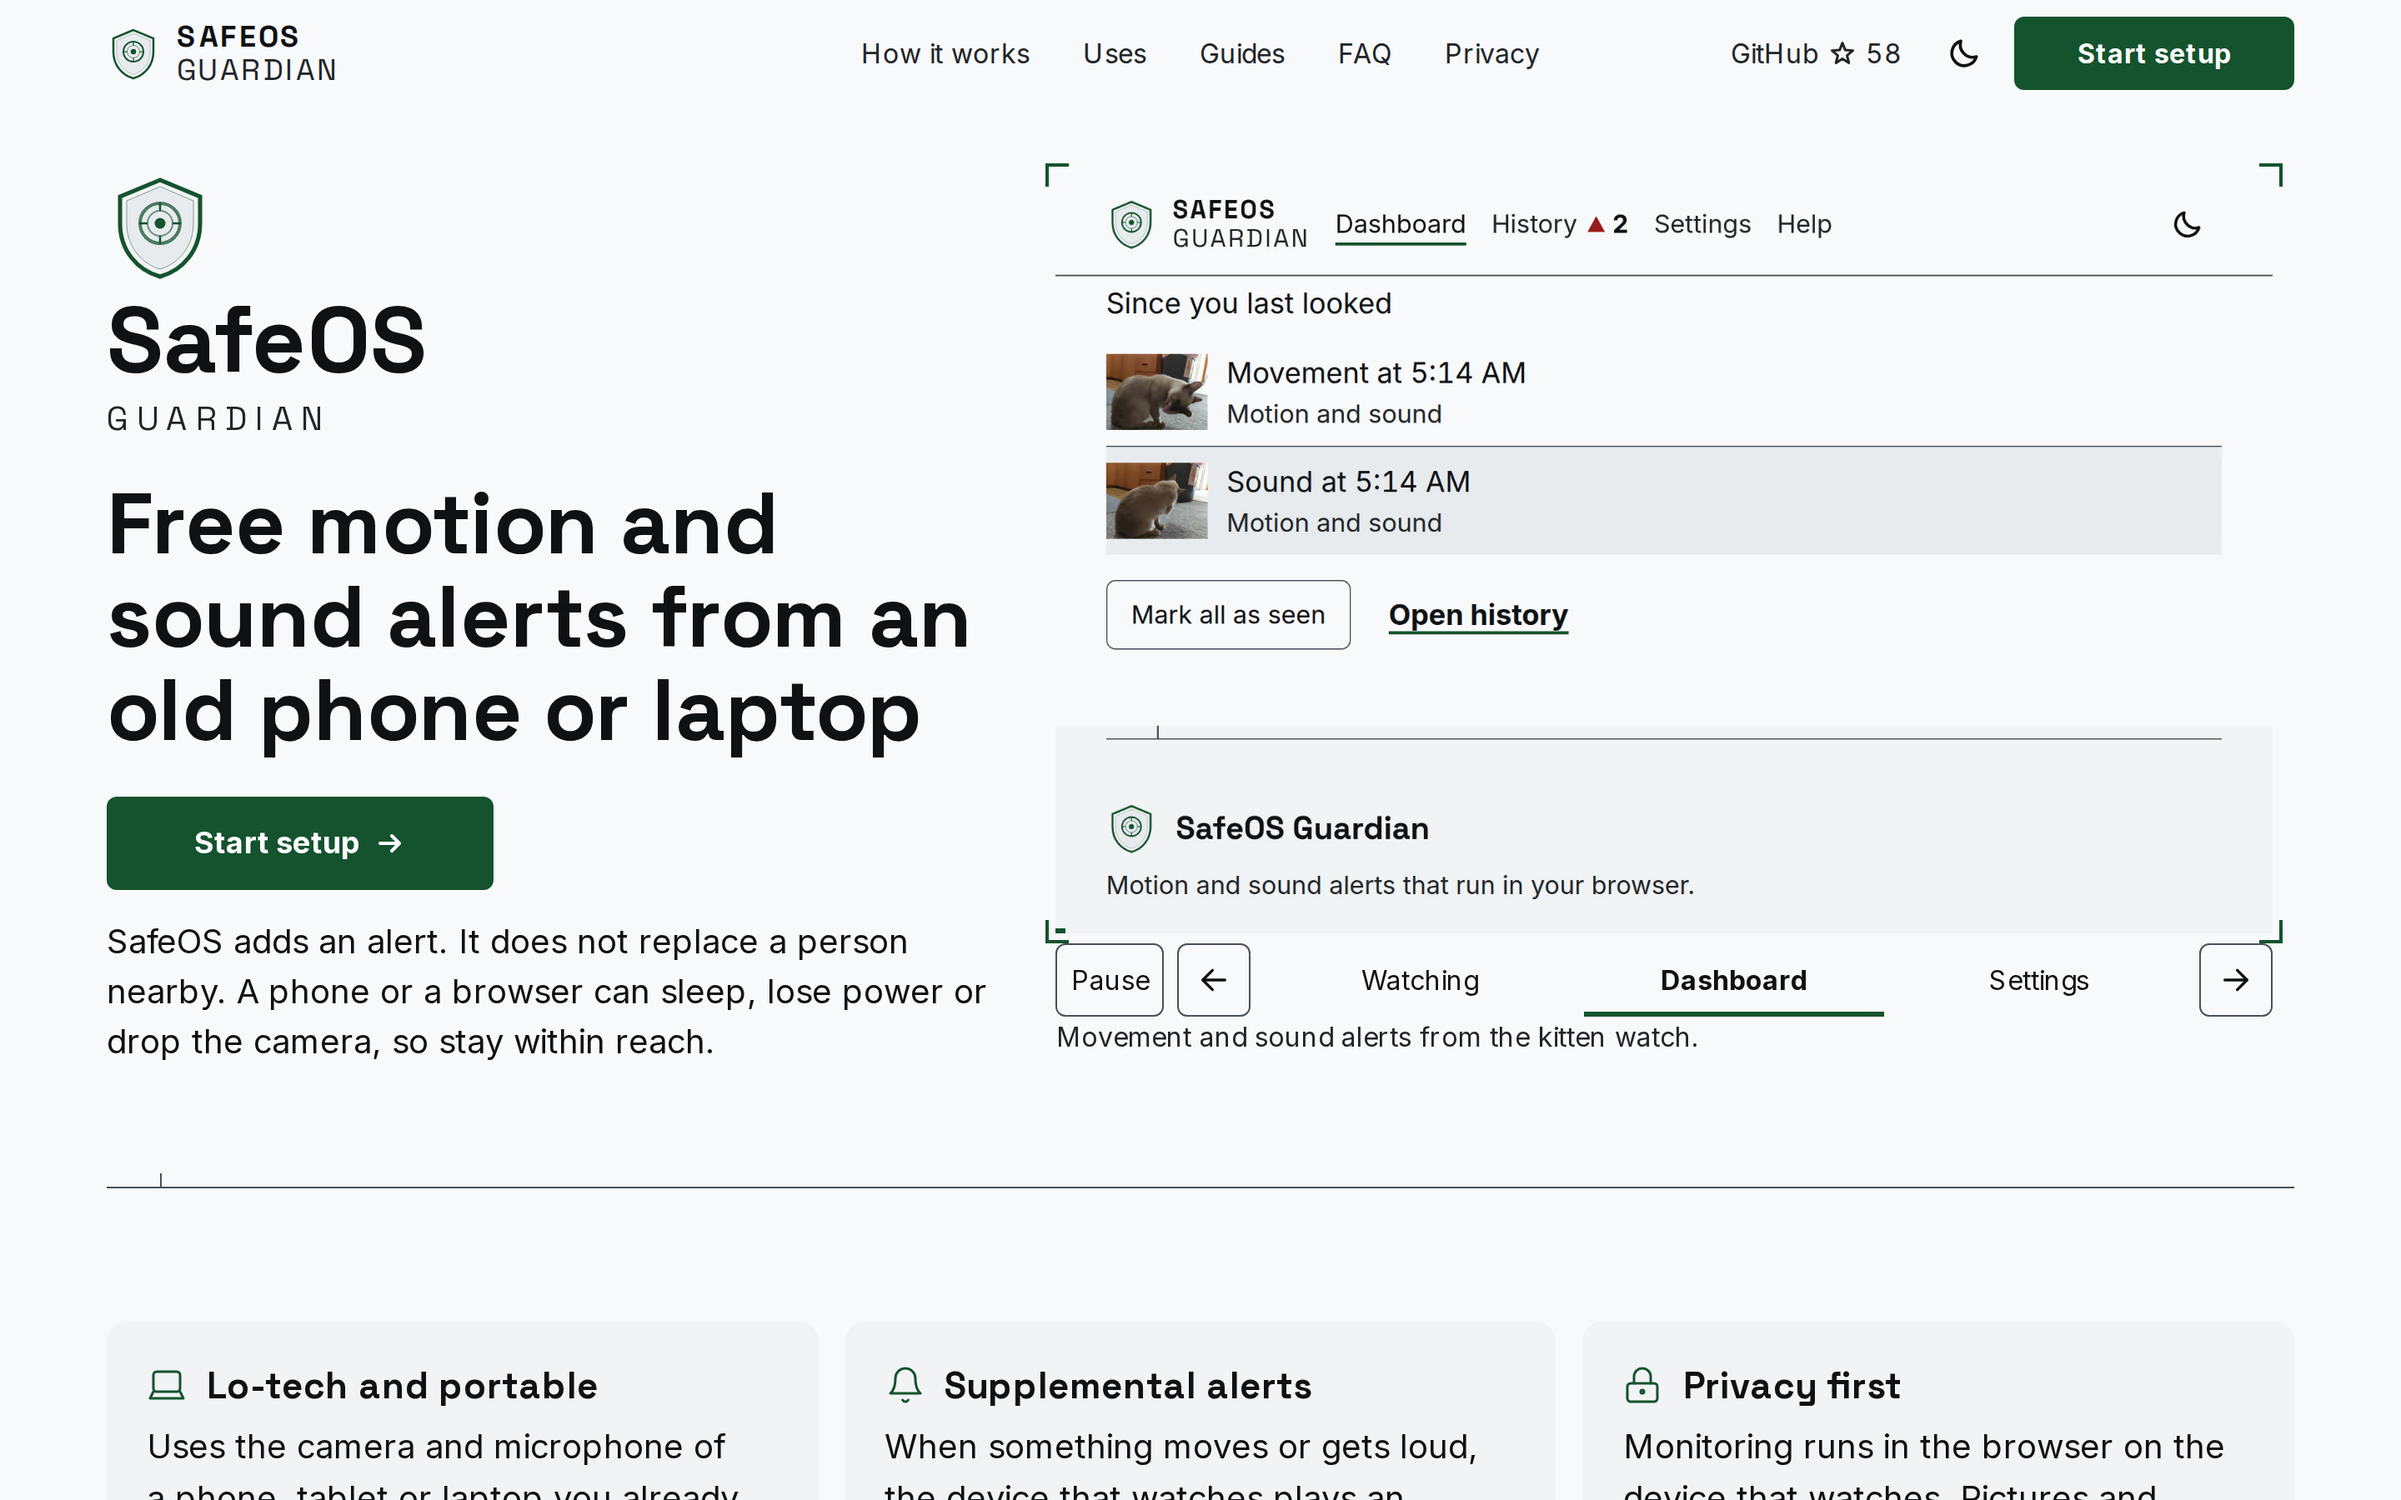
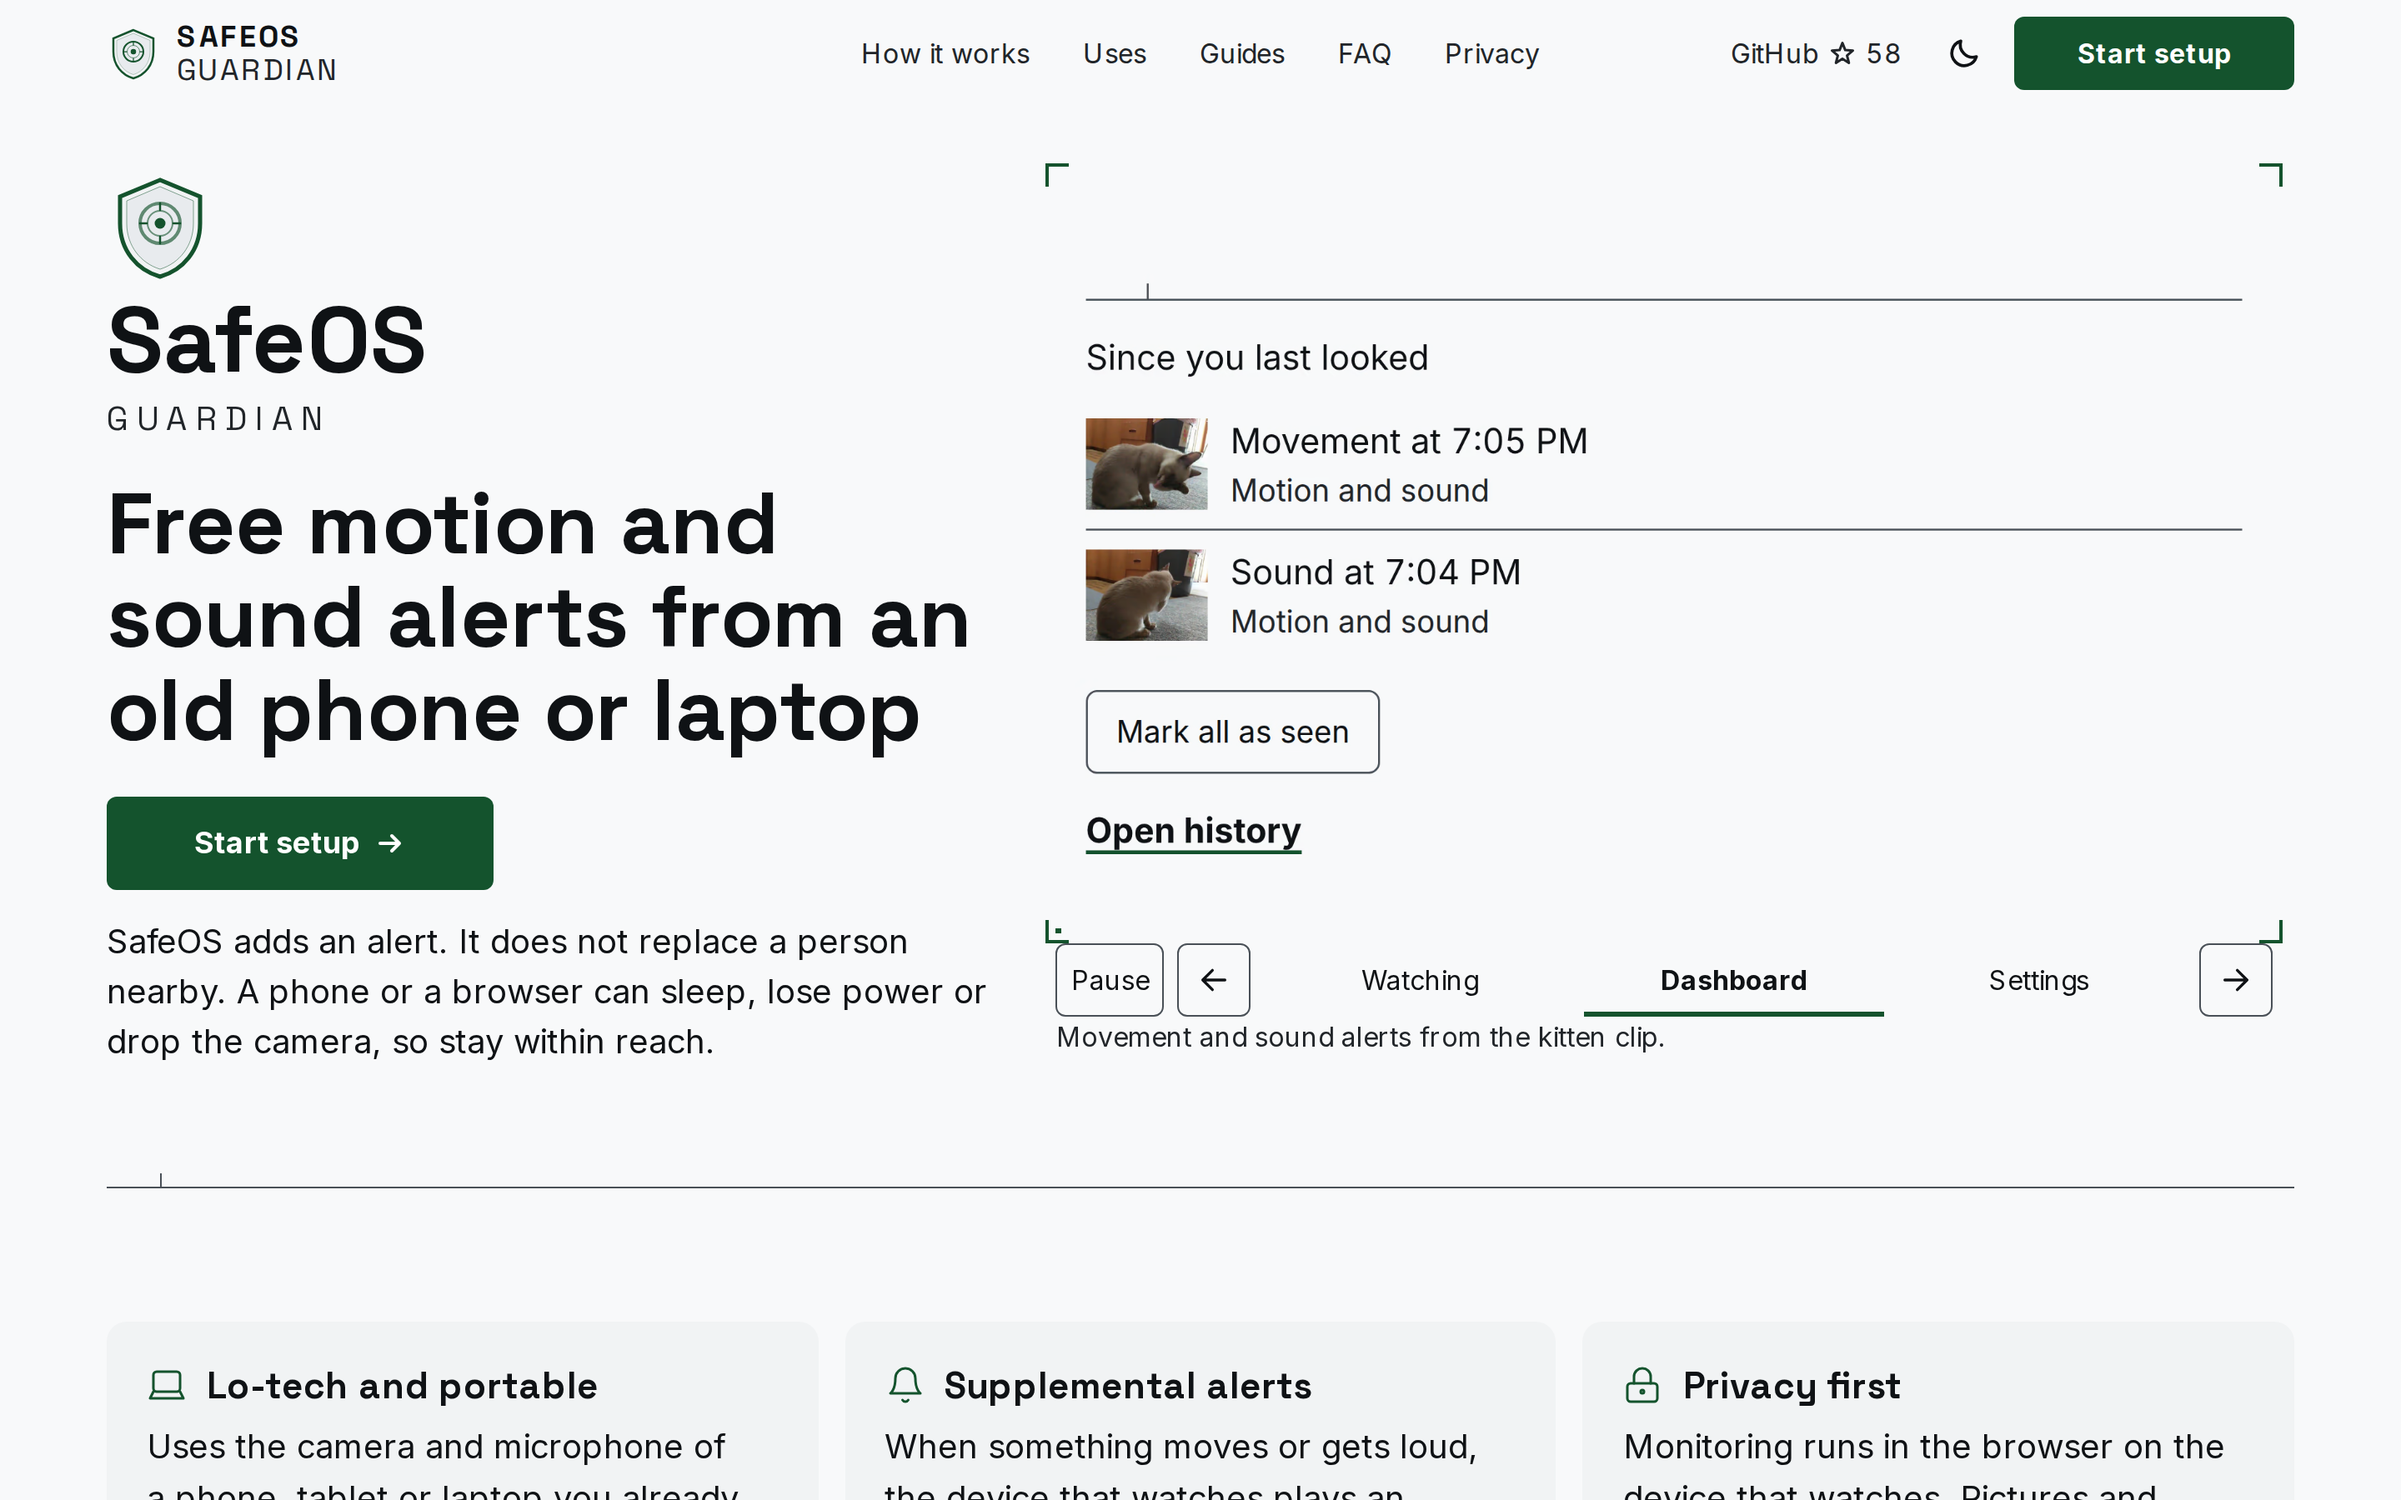
docs: refresh the home recording pictures

diff --git a/docs/pictures/pr-65/README.md b/docs/pictures/pr-65/README.md
@@ -1,32 +1,32 @@
 # SafeOS Guardian home recordings and pictures
 
-The original PNGs come from the [Pictures run](https://github.com/framerslab/safeos/actions/runs/45558776118). The first-screen captures use fresh browsers at 390 × 844 and 1440 × 900 CSS pixels, at 2× in both looks.
+The PNGs come from the [Pictures run](https://github.com/framerslab/safeos/actions/runs/45682887959). The first-screen captures use fresh browsers at 390 × 844 and 1440 × 900 CSS pixels, at 2× in both looks.
 
 - `before/` comes from `pictures-before` at base `0e21dda1420742cebd5b8db0444512d37b0c3322`.
-- `after/` comes from `pictures` for head `f2d6b971f8a88363ef7861ec4e9b2149fed705d5`.
-- The recordings and the refreshed app stills come from the [producer run](https://github.com/framerslab/safeos/actions/runs/45551367763) at `1fbe1325916c4733374cdd4141672ad4e7e33c7e`.
+- `after/` comes from `pictures` for head `be675f7ebf86ee044294abe68b776412b584af05`.
+- The recordings come from the [producer run](https://github.com/framerslab/safeos/actions/runs/45680347578) at `5b60700b3f089ff8a8c4a89a20d21fc9afa134be`. The app stills come from an [earlier Pictures run](https://github.com/framerslab/safeos/actions/runs/45551367763).
 
 | Image | View | SHA-256 |
 | --- | --- | --- |
[27 lines of base64/hex data omitted]
 
 ## Readability
 
-The after job measured 6,436 ranges across 66 images with 0 findings. The 692 recorded word boxes measured at least 8.58:1 contrast. The smallest projected font was 14.27 px, and every word passed the raster height check with one device pixel allowed at each edge.
+The after job measured 6,332 ranges across 66 images with 0 findings. The 592 recorded word boxes measured at least 9.52:1 contrast. The smallest projected font was 14.27 px. The raster height check allows one device pixel at each edge.
 
 The `pictures` artifact includes `home-readability.json` with each sampled range and `home-first-bounds.json` with the controls and caption measurements.
 
